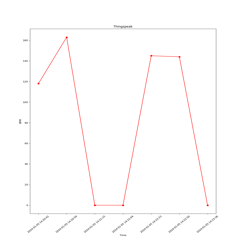
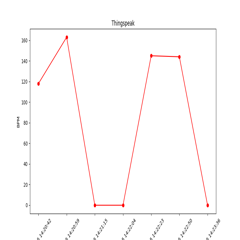
update photo

diff --git a/thingspeak.py b/thingspeak.py
@@ -67,17 +67,34 @@ class Thingspeak():
 
         im = pyimgur.Imgur(CLIENT_ID)
         uploaded_image = im.upload_image(PATH, title=title)
-        pre_image_url = uploaded_image.link
+        image_url = uploaded_image.link
 
-        pre_PATH = "pre_chart.png" #A Filepath to an image on your computer"
+        PATH = "pre_chart.png" #A Filepath to an image on your computer"
         title = "Uploaded with pre_PyImgur"
 
         pre_im = pyimgur.Imgur(CLIENT_ID)
-        uploaded_pre_image = pre_im.upload_image(pre_PATH, title=title)
+        uploaded_pre_image = pre_im.upload_image(PATH, title=title)
         # print(uploaded_image.title)
         pre_image_url = uploaded_pre_image.link
-        return  pre_image_url, pre_image_url
+        return  image_url, pre_image_url
+    
+    # # 上傳圖片到 Imgur
+    # def upload_to_imgur(self):
+    #     CLIENT_ID = "1057e1ccf4ca17c"
+    #     PATH = "pre_chart.png" #A Filepath to an image on your computer"
+    #     title = "Uploaded with pre_PyImgur"
+        
+    #     pre_im = pyimgur.Imgur(CLIENT_ID)
+    #     uploaded_pre_image = pre_im.upload_image(PATH, title=title)
+    #     # print(uploaded_image.title)
+    #     pre_image_url = uploaded_pre_image.link
+    #     return  pre_image_url, pre_image_url
         
 if __name__ == "__main__":
+    # input:  "圖表:2374700,2KNDBSF9FN4M5EY1"
     ts = Thingspeak()
+    tw_time_list, bpm_list=ts.get_data_from_thingspeak("2374700","2KNDBSF9FN4M5EY1")
+    ts.gen_chart(tw_time_list, bpm_list)
     ts.update_photo_size()
+    chart_link, pre_chart_link = ts.upload_to_imgur()
+    print(chart_link, pre_chart_link)
